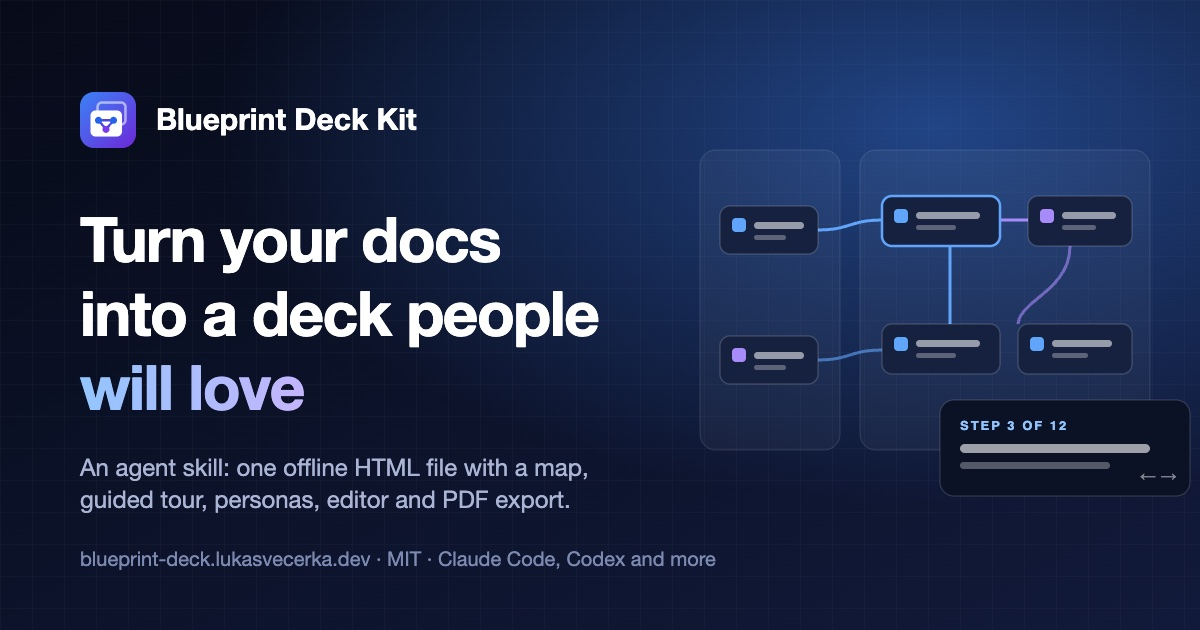
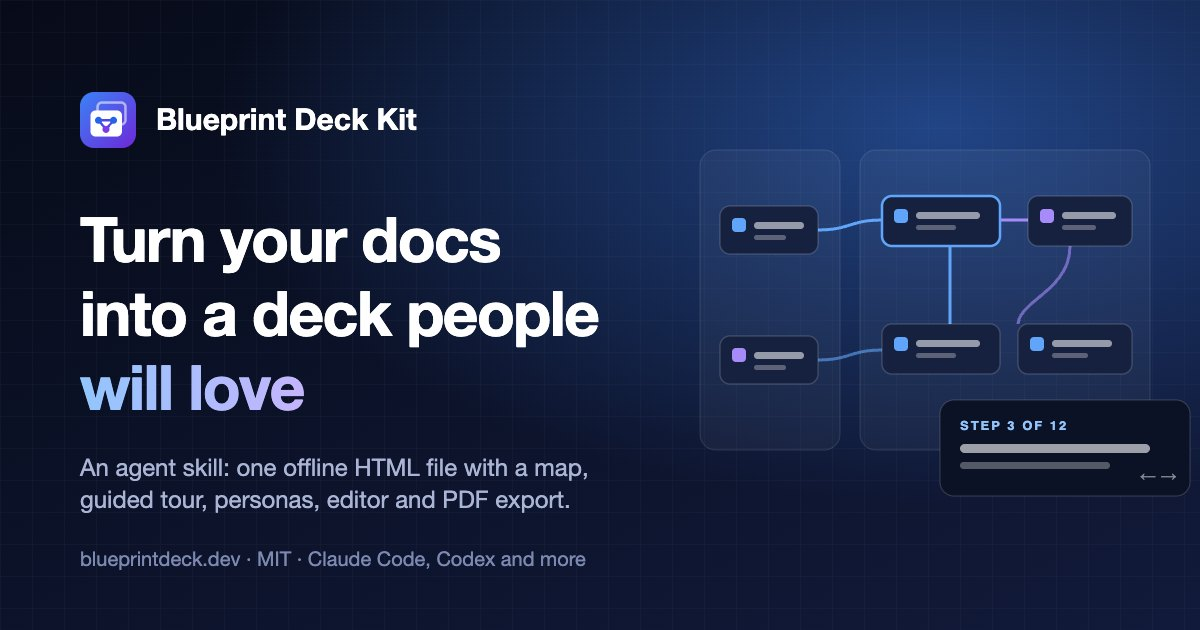
New address: blueprintdeck.dev
Website (canonical, OG, sitemap, robots), og.jpg, install commands and scripts, README and docs, plugin and marketplace manifests, the skill, the configurator, the engine's credit (examples regenerated), the issue template and the video.

Changed region(s): [[0.1233, 0.8746, 0.6167, 0.9048]]

diff --git a/examples/acme/index.html b/examples/acme/index.html
@@ -2854,7 +2854,7 @@ const rgbOf = h => { const c = BDCore.hexRgb(h) || [128, 128, 128]; return c.joi
 const setStyle = (el, props) => Object.entries(props).forEach(([k, v]) => el.style.setProperty(k, typeof v === "number" ? v + "px" : v));
 // the credit ("Made with Blueprint Deck Kit", settings.credit): the kit's mark and name, on the start screen, in the
 // ⋯ menu and the PDF footer
-const BDK_SITE = "https://blueprint-deck.lukasvecerka.dev";
+const BDK_SITE = "https://blueprintdeck.dev";
 // each copy gets its own gradient id: a copy that is hidden (the start screen while printing) can't lend it to others
 let bdkN = 0;
 const bdkCredit = () => { const n = ++bdkN; return `Made with <b class="bdk-name"><svg class="bdk-mark" viewBox="0 0 32 32" aria-hidden="true"><defs><linearGradient id="bdk-g${n}" x1="0" y1="0" x2="1" y2="1"><stop offset="0" stop-color="#3b82f6"/><stop offset="1" stop-color="#6d28d9"/></linearGradient></defs><rect width="32" height="32" rx="8" fill="url(#bdk-g${n})"/><rect x="10" y="6" width="16" height="12.5" rx="2.6" fill="none" stroke="#fff" stroke-opacity=".55" stroke-width="1.5"/><rect x="6" y="10.5" width="18" height="15" rx="3" fill="#fff"/><path d="M10.6 16.2h8.6M10.6 16.2l4.3 5.2M19.2 16.2l-4.3 5.2" stroke="#4f46e5" stroke-width="1.4" stroke-linecap="round" fill="none"/><circle cx="10.6" cy="16.2" r="2" fill="#2563eb"/><circle cx="19.2" cy="16.2" r="2" fill="#2563eb"/><circle cx="14.9" cy="21.4" r="2" fill="#7c3aed"/></svg>Blueprint Deck Kit</b>`; };

diff --git a/examples/blueprint-deck/index.html b/examples/blueprint-deck/index.html
@@ -2816,7 +2816,7 @@ const rgbOf = h => { const c = BDCore.hexRgb(h) || [128, 128, 128]; return c.joi
 const setStyle = (el, props) => Object.entries(props).forEach(([k, v]) => el.style.setProperty(k, typeof v === "number" ? v + "px" : v));
 // the credit ("Made with Blueprint Deck Kit", settings.credit): the kit's mark and name, on the start screen, in the
 // ⋯ menu and the PDF footer
-const BDK_SITE = "https://blueprint-deck.lukasvecerka.dev";
+const BDK_SITE = "https://blueprintdeck.dev";
 // each copy gets its own gradient id: a copy that is hidden (the start screen while printing) can't lend it to others
 let bdkN = 0;
 const bdkCredit = () => { const n = ++bdkN; return `Made with <b class="bdk-name"><svg class="bdk-mark" viewBox="0 0 32 32" aria-hidden="true"><defs><linearGradient id="bdk-g${n}" x1="0" y1="0" x2="1" y2="1"><stop offset="0" stop-color="#3b82f6"/><stop offset="1" stop-color="#6d28d9"/></linearGradient></defs><rect width="32" height="32" rx="8" fill="url(#bdk-g${n})"/><rect x="10" y="6" width="16" height="12.5" rx="2.6" fill="none" stroke="#fff" stroke-opacity=".55" stroke-width="1.5"/><rect x="6" y="10.5" width="18" height="15" rx="3" fill="#fff"/><path d="M10.6 16.2h8.6M10.6 16.2l4.3 5.2M19.2 16.2l-4.3 5.2" stroke="#4f46e5" stroke-width="1.4" stroke-linecap="round" fill="none"/><circle cx="10.6" cy="16.2" r="2" fill="#2563eb"/><circle cx="19.2" cy="16.2" r="2" fill="#2563eb"/><circle cx="14.9" cy="21.4" r="2" fill="#7c3aed"/></svg>Blueprint Deck Kit</b>`; };

diff --git a/examples/meetbuddy/index.html b/examples/meetbuddy/index.html
@@ -4627,7 +4627,7 @@ const rgbOf = h => { const c = BDCore.hexRgb(h) || [128, 128, 128]; return c.joi
 const setStyle = (el, props) => Object.entries(props).forEach(([k, v]) => el.style.setProperty(k, typeof v === "number" ? v + "px" : v));
 // the credit ("Made with Blueprint Deck Kit", settings.credit): the kit's mark and name, on the start screen, in the
 // ⋯ menu and the PDF footer
-const BDK_SITE = "https://blueprint-deck.lukasvecerka.dev";
+const BDK_SITE = "https://blueprintdeck.dev";
 // each copy gets its own gradient id: a copy that is hidden (the start screen while printing) can't lend it to others
 let bdkN = 0;
 const bdkCredit = () => { const n = ++bdkN; return `Made with <b class="bdk-name"><svg class="bdk-mark" viewBox="0 0 32 32" aria-hidden="true"><defs><linearGradient id="bdk-g${n}" x1="0" y1="0" x2="1" y2="1"><stop offset="0" stop-color="#3b82f6"/><stop offset="1" stop-color="#6d28d9"/></linearGradient></defs><rect width="32" height="32" rx="8" fill="url(#bdk-g${n})"/><rect x="10" y="6" width="16" height="12.5" rx="2.6" fill="none" stroke="#fff" stroke-opacity=".55" stroke-width="1.5"/><rect x="6" y="10.5" width="18" height="15" rx="3" fill="#fff"/><path d="M10.6 16.2h8.6M10.6 16.2l4.3 5.2M19.2 16.2l-4.3 5.2" stroke="#4f46e5" stroke-width="1.4" stroke-linecap="round" fill="none"/><circle cx="10.6" cy="16.2" r="2" fill="#2563eb"/><circle cx="19.2" cy="16.2" r="2" fill="#2563eb"/><circle cx="14.9" cy="21.4" r="2" fill="#7c3aed"/></svg>Blueprint Deck Kit</b>`; };

diff --git a/examples/online-boutique/index.html b/examples/online-boutique/index.html
@@ -2800,7 +2800,7 @@ const rgbOf = h => { const c = BDCore.hexRgb(h) || [128, 128, 128]; return c.joi
 const setStyle = (el, props) => Object.entries(props).forEach(([k, v]) => el.style.setProperty(k, typeof v === "number" ? v + "px" : v));
 // the credit ("Made with Blueprint Deck Kit", settings.credit): the kit's mark and name, on the start screen, in the
 // ⋯ menu and the PDF footer
-const BDK_SITE = "https://blueprint-deck.lukasvecerka.dev";
+const BDK_SITE = "https://blueprintdeck.dev";
 // each copy gets its own gradient id: a copy that is hidden (the start screen while printing) can't lend it to others
 let bdkN = 0;
 const bdkCredit = () => { const n = ++bdkN; return `Made with <b class="bdk-name"><svg class="bdk-mark" viewBox="0 0 32 32" aria-hidden="true"><defs><linearGradient id="bdk-g${n}" x1="0" y1="0" x2="1" y2="1"><stop offset="0" stop-color="#3b82f6"/><stop offset="1" stop-color="#6d28d9"/></linearGradient></defs><rect width="32" height="32" rx="8" fill="url(#bdk-g${n})"/><rect x="10" y="6" width="16" height="12.5" rx="2.6" fill="none" stroke="#fff" stroke-opacity=".55" stroke-width="1.5"/><rect x="6" y="10.5" width="18" height="15" rx="3" fill="#fff"/><path d="M10.6 16.2h8.6M10.6 16.2l4.3 5.2M19.2 16.2l-4.3 5.2" stroke="#4f46e5" stroke-width="1.4" stroke-linecap="round" fill="none"/><circle cx="10.6" cy="16.2" r="2" fill="#2563eb"/><circle cx="19.2" cy="16.2" r="2" fill="#2563eb"/><circle cx="14.9" cy="21.4" r="2" fill="#7c3aed"/></svg>Blueprint Deck Kit</b>`; };

diff --git a/examples/postgresql/index.html b/examples/postgresql/index.html
@@ -3221,7 +3221,7 @@ const rgbOf = h => { const c = BDCore.hexRgb(h) || [128, 128, 128]; return c.joi
 const setStyle = (el, props) => Object.entries(props).forEach(([k, v]) => el.style.setProperty(k, typeof v === "number" ? v + "px" : v));
 // the credit ("Made with Blueprint Deck Kit", settings.credit): the kit's mark and name, on the start screen, in the
 // ⋯ menu and the PDF footer
-const BDK_SITE = "https://blueprint-deck.lukasvecerka.dev";
+const BDK_SITE = "https://blueprintdeck.dev";
 // each copy gets its own gradient id: a copy that is hidden (the start screen while printing) can't lend it to others
 let bdkN = 0;
 const bdkCredit = () => { const n = ++bdkN; return `Made with <b class="bdk-name"><svg class="bdk-mark" viewBox="0 0 32 32" aria-hidden="true"><defs><linearGradient id="bdk-g${n}" x1="0" y1="0" x2="1" y2="1"><stop offset="0" stop-color="#3b82f6"/><stop offset="1" stop-color="#6d28d9"/></linearGradient></defs><rect width="32" height="32" rx="8" fill="url(#bdk-g${n})"/><rect x="10" y="6" width="16" height="12.5" rx="2.6" fill="none" stroke="#fff" stroke-opacity=".55" stroke-width="1.5"/><rect x="6" y="10.5" width="18" height="15" rx="3" fill="#fff"/><path d="M10.6 16.2h8.6M10.6 16.2l4.3 5.2M19.2 16.2l-4.3 5.2" stroke="#4f46e5" stroke-width="1.4" stroke-linecap="round" fill="none"/><circle cx="10.6" cy="16.2" r="2" fill="#2563eb"/><circle cx="19.2" cy="16.2" r="2" fill="#2563eb"/><circle cx="14.9" cy="21.4" r="2" fill="#7c3aed"/></svg>Blueprint Deck Kit</b>`; };

diff --git a/examples/saas-onboarding/index.html b/examples/saas-onboarding/index.html
@@ -3015,7 +3015,7 @@ const rgbOf = h => { const c = BDCore.hexRgb(h) || [128, 128, 128]; return c.joi
 const setStyle = (el, props) => Object.entries(props).forEach(([k, v]) => el.style.setProperty(k, typeof v === "number" ? v + "px" : v));
 // the credit ("Made with Blueprint Deck Kit", settings.credit): the kit's mark and name, on the start screen, in the
 // ⋯ menu and the PDF footer
-const BDK_SITE = "https://blueprint-deck.lukasvecerka.dev";
+const BDK_SITE = "https://blueprintdeck.dev";
 // each copy gets its own gradient id: a copy that is hidden (the start screen while printing) can't lend it to others
 let bdkN = 0;
 const bdkCredit = () => { const n = ++bdkN; return `Made with <b class="bdk-name"><svg class="bdk-mark" viewBox="0 0 32 32" aria-hidden="true"><defs><linearGradient id="bdk-g${n}" x1="0" y1="0" x2="1" y2="1"><stop offset="0" stop-color="#3b82f6"/><stop offset="1" stop-color="#6d28d9"/></linearGradient></defs><rect width="32" height="32" rx="8" fill="url(#bdk-g${n})"/><rect x="10" y="6" width="16" height="12.5" rx="2.6" fill="none" stroke="#fff" stroke-opacity=".55" stroke-width="1.5"/><rect x="6" y="10.5" width="18" height="15" rx="3" fill="#fff"/><path d="M10.6 16.2h8.6M10.6 16.2l4.3 5.2M19.2 16.2l-4.3 5.2" stroke="#4f46e5" stroke-width="1.4" stroke-linecap="round" fill="none"/><circle cx="10.6" cy="16.2" r="2" fill="#2563eb"/><circle cx="19.2" cy="16.2" r="2" fill="#2563eb"/><circle cx="14.9" cy="21.4" r="2" fill="#7c3aed"/></svg>Blueprint Deck Kit</b>`; };

diff --git a/plugins/blueprint-deck/skills/blueprint-deck/blueprint-deck.html b/plugins/blueprint-deck/skills/blueprint-deck/blueprint-deck.html
@@ -1709,7 +1709,7 @@ const rgbOf = h => { const c = BDCore.hexRgb(h) || [128, 128, 128]; return c.joi
 const setStyle = (el, props) => Object.entries(props).forEach(([k, v]) => el.style.setProperty(k, typeof v === "number" ? v + "px" : v));
 // the credit ("Made with Blueprint Deck Kit", settings.credit): the kit's mark and name, on the start screen, in the
 // ⋯ menu and the PDF footer
-const BDK_SITE = "https://blueprint-deck.lukasvecerka.dev";
+const BDK_SITE = "https://blueprintdeck.dev";
 // each copy gets its own gradient id: a copy that is hidden (the start screen while printing) can't lend it to others
 let bdkN = 0;
 const bdkCredit = () => { const n = ++bdkN; return `Made with <b class="bdk-name"><svg class="bdk-mark" viewBox="0 0 32 32" aria-hidden="true"><defs><linearGradient id="bdk-g${n}" x1="0" y1="0" x2="1" y2="1"><stop offset="0" stop-color="#3b82f6"/><stop offset="1" stop-color="#6d28d9"/></linearGradient></defs><rect width="32" height="32" rx="8" fill="url(#bdk-g${n})"/><rect x="10" y="6" width="16" height="12.5" rx="2.6" fill="none" stroke="#fff" stroke-opacity=".55" stroke-width="1.5"/><rect x="6" y="10.5" width="18" height="15" rx="3" fill="#fff"/><path d="M10.6 16.2h8.6M10.6 16.2l4.3 5.2M19.2 16.2l-4.3 5.2" stroke="#4f46e5" stroke-width="1.4" stroke-linecap="round" fill="none"/><circle cx="10.6" cy="16.2" r="2" fill="#2563eb"/><circle cx="19.2" cy="16.2" r="2" fill="#2563eb"/><circle cx="14.9" cy="21.4" r="2" fill="#7c3aed"/></svg>Blueprint Deck Kit</b>`; };

diff --git a/engine/src/render.js b/engine/src/render.js
@@ -8,7 +8,7 @@ const rgbOf = h => { const c = BDCore.hexRgb(h) || [128, 128, 128]; return c.joi
 const setStyle = (el, props) => Object.entries(props).forEach(([k, v]) => el.style.setProperty(k, typeof v === "number" ? v + "px" : v));
 // the credit ("Made with Blueprint Deck Kit", settings.credit): the kit's mark and name, on the start screen, in the
 // ⋯ menu and the PDF footer
-const BDK_SITE = "https://blueprint-deck.lukasvecerka.dev";
+const BDK_SITE = "https://blueprintdeck.dev";
 // each copy gets its own gradient id: a copy that is hidden (the start screen while printing) can't lend it to others
 let bdkN = 0;
 const bdkCredit = () => { const n = ++bdkN; return `Made with <b class="bdk-name"><svg class="bdk-mark" viewBox="0 0 32 32" aria-hidden="true"><defs><linearGradient id="bdk-g${n}" x1="0" y1="0" x2="1" y2="1"><stop offset="0" stop-color="#3b82f6"/><stop offset="1" stop-color="#6d28d9"/></linearGradient></defs><rect width="32" height="32" rx="8" fill="url(#bdk-g${n})"/><rect x="10" y="6" width="16" height="12.5" rx="2.6" fill="none" stroke="#fff" stroke-opacity=".55" stroke-width="1.5"/><rect x="6" y="10.5" width="18" height="15" rx="3" fill="#fff"/><path d="M10.6 16.2h8.6M10.6 16.2l4.3 5.2M19.2 16.2l-4.3 5.2" stroke="#4f46e5" stroke-width="1.4" stroke-linecap="round" fill="none"/><circle cx="10.6" cy="16.2" r="2" fill="#2563eb"/><circle cx="19.2" cy="16.2" r="2" fill="#2563eb"/><circle cx="14.9" cy="21.4" r="2" fill="#7c3aed"/></svg>Blueprint Deck Kit</b>`; };

diff --git a/configurator/index.html b/configurator/index.html
@@ -245,10 +245,10 @@
       </header>
       <section>
         <div class="cmd-label">macOS / Linux</div>
-        <div class="cmd"><code id="cmdSh">curl -fsSL https://blueprint-deck.lukasvecerka.dev/install.sh | sh</code>
+        <div class="cmd"><code id="cmdSh">curl -fsSL https://blueprintdeck.dev/install.sh | sh</code>
           <button type="button" class="btn" data-variant="ghost" data-size="sm" data-copy="#cmdSh" aria-label="Copy the macOS and Linux install command">Copy</button></div>
         <div class="cmd-label">Windows (PowerShell)</div>
-        <div class="cmd"><code id="cmdPs">irm https://blueprint-deck.lukasvecerka.dev/install.ps1 | iex</code>
+        <div class="cmd"><code id="cmdPs">irm https://blueprintdeck.dev/install.ps1 | iex</code>
           <button type="button" class="btn" data-variant="ghost" data-size="sm" data-copy="#cmdPs" aria-label="Copy the Windows install command">Copy</button></div>
         <p class="note" style="margin-top:10px">Source, docs and examples: <a href="https://github.com/lukasvecerka23/blueprint-deck-kit" target="_blank" rel="noopener">github.com/lukasvecerka23/blueprint-deck-kit</a></p>
       </section>

diff --git a/site/src/data/site.ts b/site/src/data/site.ts
@@ -1,7 +1,7 @@
 export const SITE = {
   name: "Blueprint Deck Kit",
   short: "Blueprint Deck",
-  url: "https://blueprint-deck.lukasvecerka.dev",
+  url: "https://blueprintdeck.dev",
   repo: "https://github.com/lukasvecerka23/blueprint-deck-kit",
   sponsor: "https://github.com/sponsors/lukasvecerka23",
   author: "Lukáš Večerka",

diff --git a/video/src/content.ts b/video/src/content.ts
@@ -189,7 +189,7 @@ export const END = {
   name: 'Blueprint Deck Kit',
   tagline: 'Turn your docs into a deck people will love.',
   license: 'Free & open source · MIT',
-  site: 'blueprint-deck.lukasvecerka.dev',
+  site: 'blueprintdeck.dev',
   repo: 'github.com/lukasvecerka23/blueprint-deck-kit',
 };
 

diff --git a/README.md b/README.md
@@ -6,7 +6,7 @@
 
 ![Blueprint Deck in 8 seconds: the map builds, then the guided tour zooms from step to step](docs/images/demo.gif)
 
-▶ **[Watch the 1-minute video](https://blueprint-deck.lukasvecerka.dev/#video)** · **[Try a live deck](https://blueprint-deck.lukasvecerka.dev/examples/acme/index.html)**
+▶ **[Watch the 1-minute video](https://blueprintdeck.dev/#video)** · **[Try a live deck](https://blueprintdeck.dev/examples/acme/index.html)**
 
 Your coding agent (Claude Code, Codex or any agent that supports skills) reads your docs or your code and writes a
 *Blueprint Deck*: a pan-and-zoom map of your product, process or system that is also a slide deck.
@@ -32,9 +32,9 @@ ecosystems and org maps, in a product (what it does for whom) or technical (comp
 | ![The configurator: shared settings, one tab per diagram, a live theme preview and the prompt](docs/images/configurator.jpg) | |
 | **The configurator** writes the config and the prompt | |
 
-**[Website & configurator](https://blueprint-deck.lukasvecerka.dev)** ·
-**[Examples](https://blueprint-deck.lukasvecerka.dev/gallery/)** ·
-**[Docs](https://blueprint-deck.lukasvecerka.dev/docs/)**
+**[Website & configurator](https://blueprintdeck.dev)** ·
+**[Examples](https://blueprintdeck.dev/gallery/)** ·
+**[Docs](https://blueprintdeck.dev/docs/)**
 
 ---
 
@@ -107,7 +107,7 @@ Nothing else to install, no account: the skill is plain files, and the agent run
 
 ### 2. Describe the diagram
 
-Open the **[configurator](https://blueprint-deck.lukasvecerka.dev/configurator/)** (or `configurator/index.html`
+Open the **[configurator](https://blueprintdeck.dev/configurator/)** (or `configurator/index.html`
 from a clone, offline). Pick the type, viewpoint, audience, sources, tabs, tour, look and brand colours, one tab per
 diagram if you want several. Click **Copy prompt**: it contains the whole configuration.
 
@@ -170,7 +170,7 @@ validates a file and lists what each view highlights. Without Node, press E → 
 
 ## Examples
 
-Open them from [`examples/`](examples/) or the [gallery](https://blueprint-deck.lukasvecerka.dev/gallery/):
+Open them from [`examples/`](examples/) or the [gallery](https://blueprintdeck.dev/gallery/):
 - `acme`: a fictional shop, two diagrams in one file (platform architecture with personas + checkout process)
 - `blueprint-deck`: this kit explaining itself
 - `saas-onboarding`: a customer journey (fictional), light theme
